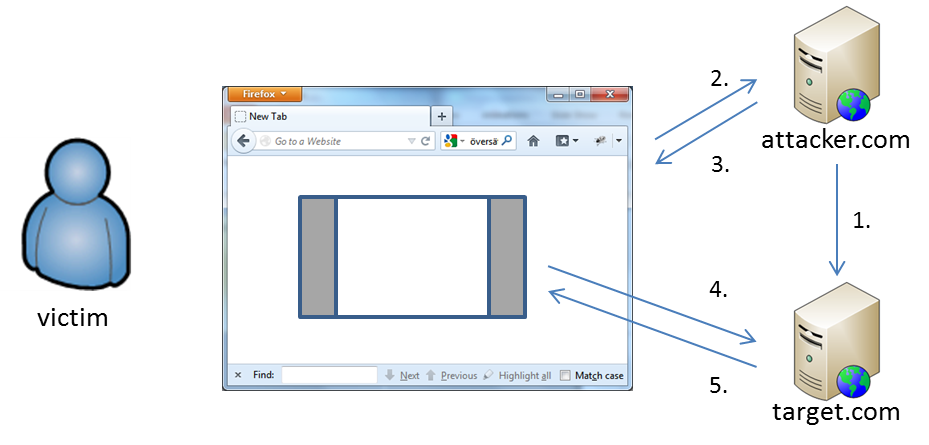
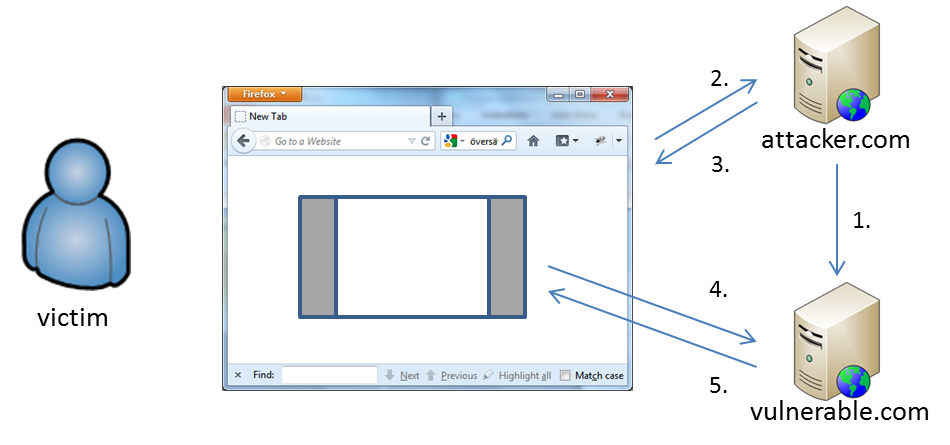
Scenario fix

diff --git a/main.tex b/main.tex
@@ -360,15 +360,15 @@ how a polyglot can infiltrate an origin.
 
 The scenario, illustrated in Figure~\ref{fig:scenario}, describe how the attack proceed, from the infiltration of the origin, to the compromise of the victim.
 The victim in this scenario is an authenticated user of a targeted vulnerable website, \emph{vulnerable.com}. 
-The target is infiltrated by the attacker, manipulating the website to
+The target is infiltrated by the attacker (1), manipulating the website to
 serve polyglot content. 
 The \emph{vulnerable.com} site serves the polyglot content as the benign content type, harmless to the victim. 
 At a certain point, while still authenticated to \emph{vulnerable.com}, 
-the victim unsuspectingly visits the attackers malicious website, \emph{attacker.com}.
-The \emph{attacker.com} site embeds the polyglot content from \emph{vulnerable.com}, but
-coerces the browser to interpret it as the malicious content type. 
+the victim unsuspectingly visits the attackers malicious website, \emph{attacker.com} (2).
+The \emph{attacker.com} site embeds the polyglot content from \emph{vulnerable.com} (3), but
+coerces the browser to interpret it as the malicious content type (4). 
 The capabilities of the malicious format determine the 
-severity of the consequences of exploitation. 
+severity of the consequences of exploitation (5). 
 
 To give more context to the scenario, \emph{vulnerable.com} can be a cloud storage service. 
 The attacker infiltrates the target by uploading a polyglot to the service and embed it 
@@ -772,7 +772,7 @@ not have a player installed. %Considering that it might be a conscious decision
 %of the user to refuse a flash player, 
 
 %\subsection{Embedded PDF documents}
-%\todo{Not sure how well it fits here}
+
 When a PDF document is embedded in a web page, the corresponding plugin 
 is executed to render the content. Recall from Section~\ref{sec:cross-origin} 
 that the plug-in is selected based 
@@ -1039,7 +1039,7 @@ potential targets generally require authentication before submitting content.
 
 The study is based on supplying the websites with small benign samples 
 of PDF syntax, containing keywords and tokens, and examining the responses 
-for said tokens. The samples are benign strings containing \todo{?}. The conclusion is 
+for said tokens. The conclusion is 
 that nine websites out of the hundred apply insufficient content filtering with 
 respect to the PDF format, which have the potential of compromising the 
 confidentiality and integrity of the website's users.
